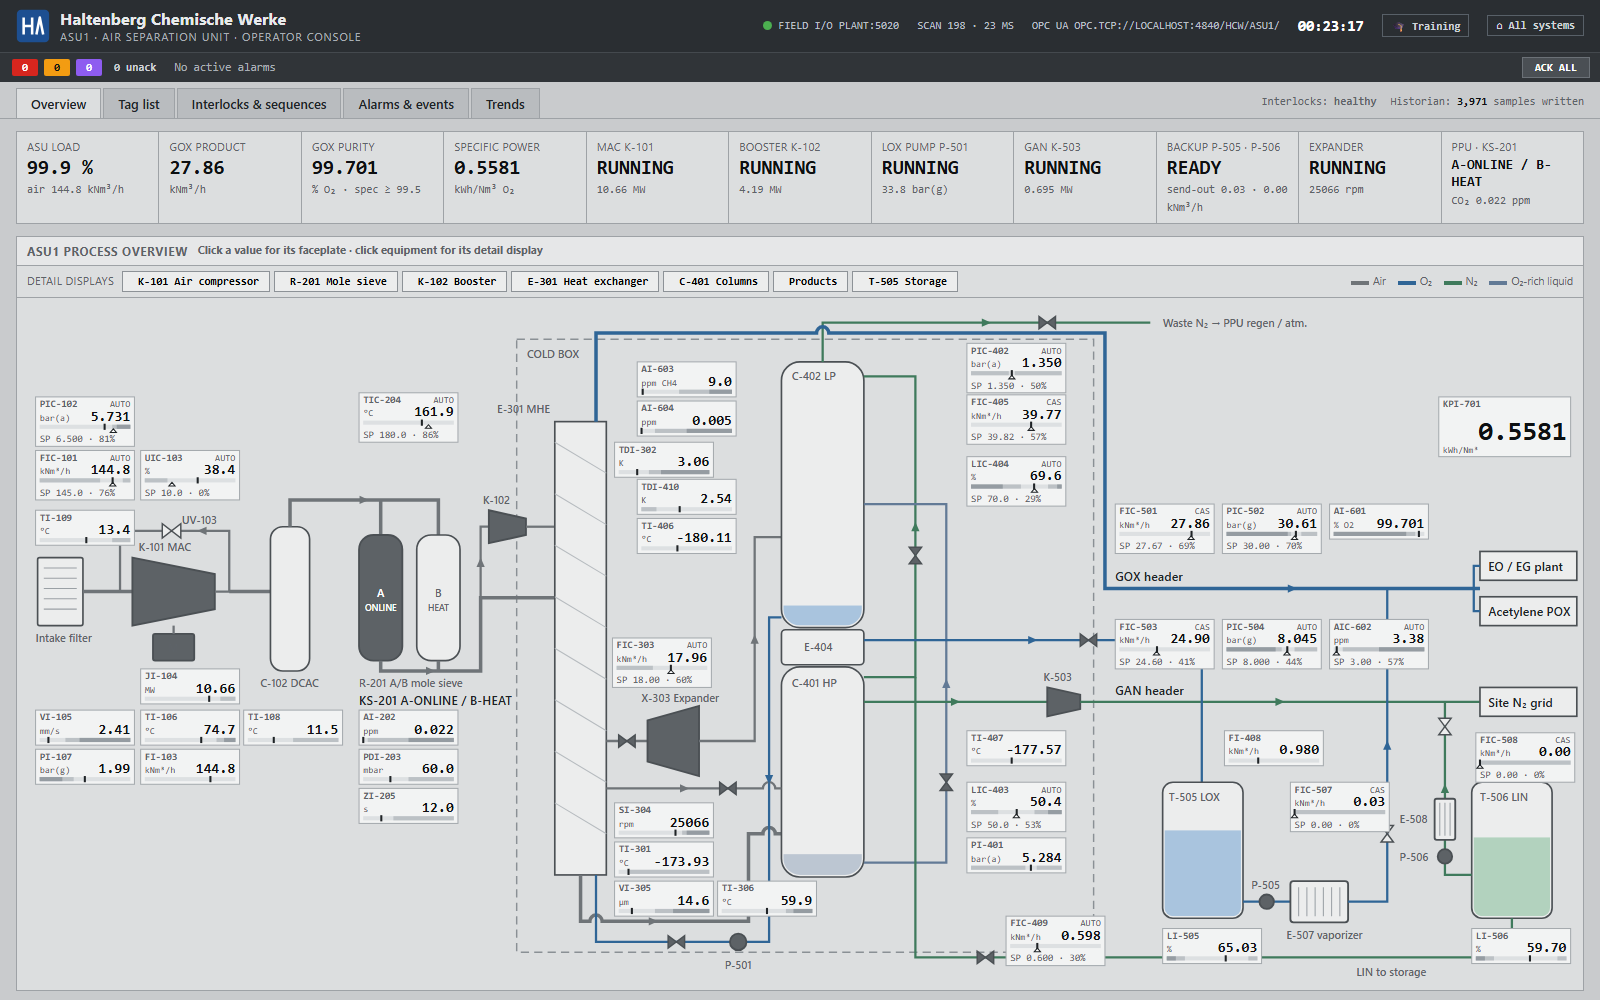
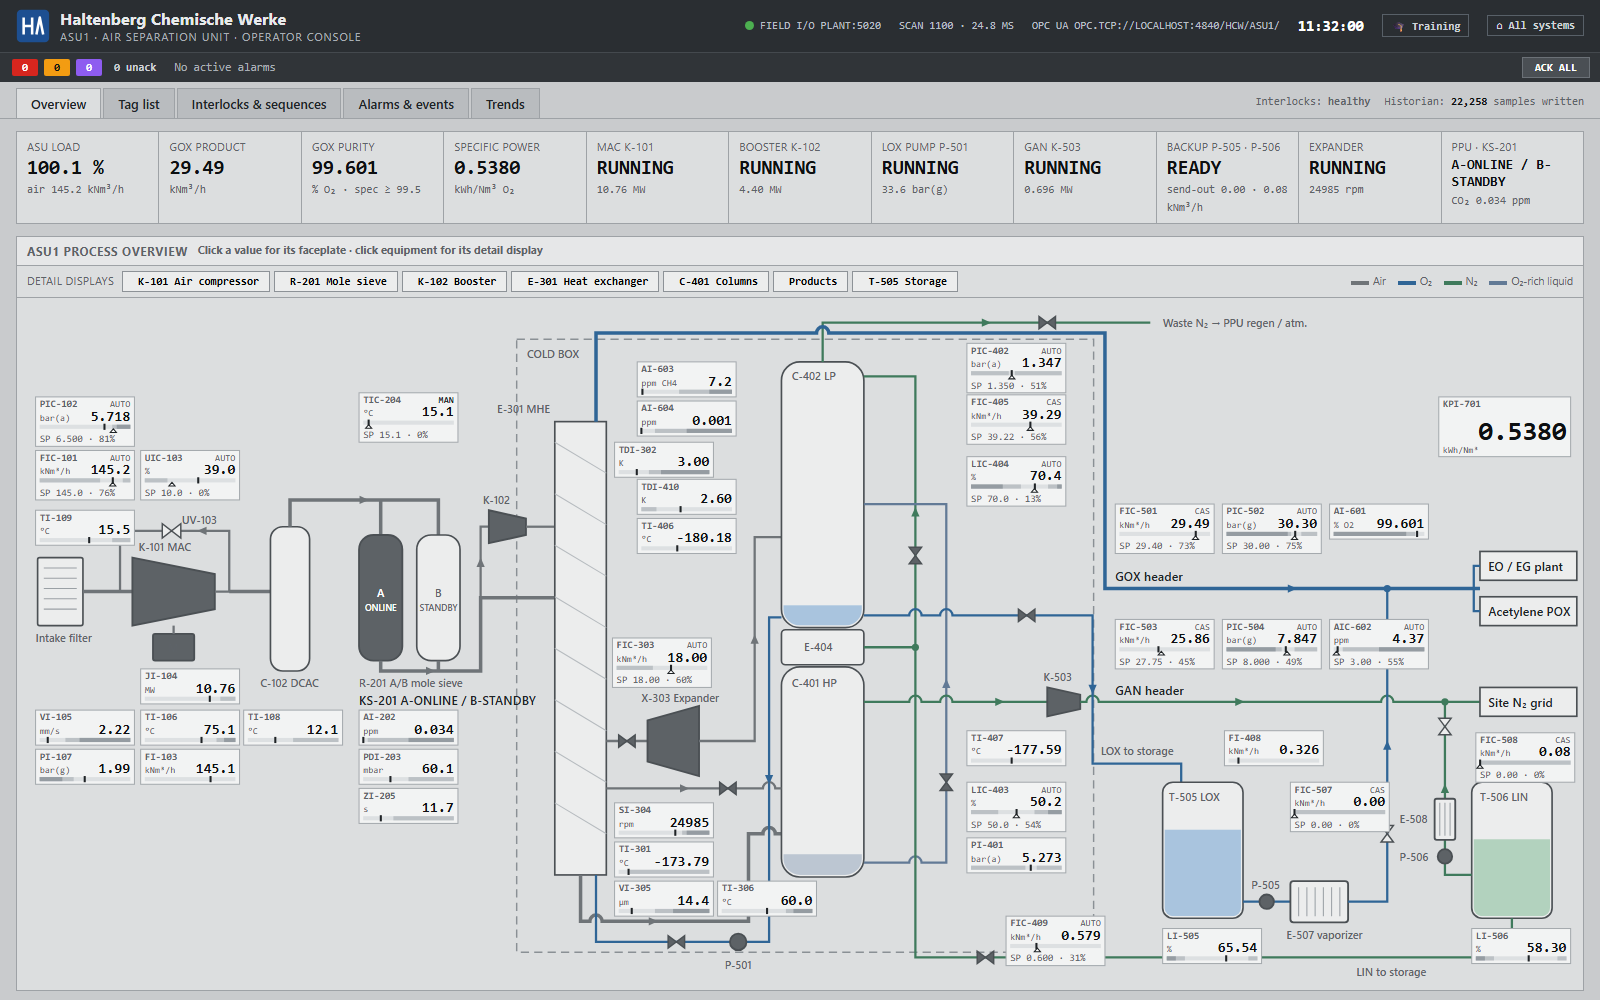
Overview drawing fixes: LOX from the LP sump, LIN from E-404, line hops (step 2c)
- LOX to storage leaves the LP sump as liquid; LV-404 and its label moved clear of the GAN
  data blocks.
- LIN reflux and LIN to storage start at E-404, with a branch node.
- Line hops at every pipe crossing on the overview; junction dots where the E-507 / E-508
  send-outs join their headers.
- Light scope (Willem's choice): GAN and waste N2 still go straight to their headers on L2;
  the E-301 detail display shows them passing the exchanger. Recorded in CLAUDE.md.

diff --git a/dcs/web/operator.html b/dcs/web/operator.html
@@ -446,11 +446,12 @@
           <rect class="vessel" x="742" y="358" width="80" height="204" rx="18"/>
           <rect id="lvl-403" class="liquid rich" clip-path="url(#clip-403)" x="742" y="520" width="80" height="40"/>
           <text class="lbl" x="752" y="378">C-401 HP</text>
-          <!-- reflux HP top -> LP top -->
-          <path class="pipe n2" d="M822 368H872V76H822"/>
+          <!-- LIN from E-404: reflux to the LP top; the branch at the node goes to storage (T-506) -->
+          <path class="pipe n2" d="M822 339H872V76H822"/>
+          <circle class="node" cx="872" cy="339" r="3.5" style="fill:var(--n2)"/>
           <g id="v-FV-405" transform="translate(872,250)"><polygon class="valve" points="-6,-8 6,-8 -6,8 6,8"/></g>
           <!-- rich liquid HP sump -> LP middle -->
-          <path class="pipe rich" d="M822 548H902V200H822"/>
+          <path class="pipe rich" d="M822 548H866a6 6 0 0 1 12 0H902V200H822"/>
           <g id="v-LV-403" transform="translate(902,470)"><polygon class="valve" points="-6,-8 6,-8 -6,8 6,8"/></g>
           <!-- waste N2 -->
           <path class="pipe n2" d="M782 62V24H1100"/>
@@ -469,15 +470,16 @@
           <path class="pipe" d="M572 476H724a6 6 0 0 1 12 0H742"/>
           <g id="v-HV-116" transform="translate(690,476)"><polygon class="valve open" points="-8,-6 -8,6 8,-6 8,6"/></g>
           <!-- GAN: HP column top → K-503 GAN compressor (guide vanes FV-503) → 8 bar(g) header -->
-          <path class="pipe n2" d="M822 392H1000"/>
+          <path class="pipe n2" d="M822 392H866a6 6 0 0 1 12 0H896a6 6 0 0 1 12 0H1000"/>
           <polygon id="eq-GANC" class="equip" points="1000,378 1032,385 1032,399 1000,406"/>
           <text class="lbl" x="996" y="372">K-503</text>
-          <path class="pipe n2" d="M1032 392H1420"/>
-          <path class="pipe o2" d="M822 332H1150V470"/>
-          <g id="v-LV-404" transform="translate(1040,332)"><polygon class="valve" points="-8,-6 -8,6 8,-6 8,6"/></g>
+          <path class="pipe n2" d="M1032 392H1038a6 6 0 0 1 12 0H1324a6 6 0 0 1 12 0H1420"/>
+          <!-- LOX to storage leaves the LP sump as liquid -->
+          <path class="pipe o2" d="M822 308H866a6 6 0 0 1 12 0H896a6 6 0 0 1 12 0H1044V452H1130V470"/>
+          <g id="v-LV-404" transform="translate(980,308)"><polygon class="valve" points="-8,-6 -8,6 8,-6 8,6"/></g>
           <text class="lbl big" x="1066" y="275">GOX header</text>
           <text class="lbl big" x="1066" y="385">GAN header</text>
-          <text class="lbl" x="1066" y="326">LOX to storage</text>
+          <text class="lbl" x="1052" y="444">LOX to storage</text>
           <rect class="vessel" x="1420" y="246" width="94" height="28"/><text class="lbl big" x="1428" y="265">EO / EG plant</text>
           <rect class="vessel" x="1420" y="290" width="94" height="28"/><text class="lbl big" x="1428" y="309">Acetylene POX</text>
           <path class="pipe o2" d="M1420 282H1414V260H1420M1414 282V304H1420"/>
@@ -494,19 +496,21 @@
           <path d="M1244 572v28M1252 572v28M1260 572v28M1268 572v28M1276 572v28M1284 572v28" stroke="#9aa0a5" stroke-width="1"/>
           <text class="lbl" x="1232" y="622">E-507 vaporizer</text>
           <path class="pipe o2" d="M1292 586H1330V282"/>
+          <circle class="node" cx="1330" cy="282" r="3.5" style="fill:var(--o2)"/>
           <g id="v-FV-507" transform="translate(1330,520)"><polygon class="valve" points="-6,-8 6,-8 -6,8 6,8"/></g>
           <rect class="vessel" x="1412" y="470" width="78" height="132" rx="10"/>
           <rect id="lvl-506" class="liquid lin" clip-path="url(#clip-506)" x="1412" y="540" width="78" height="60"/>
           <text class="lbl" x="1420" y="488">T-506 LIN</text>
           <!-- LIN backup: T-506 → P-506 → E-508 vaporizer → FV-508 → GAN header -->
           <path class="pipe n2" d="M1412 560H1386V392"/>
+          <circle class="node" cx="1386" cy="392" r="3.5" style="fill:var(--n2)"/>
           <g id="v-FV-508" transform="translate(1386,416)"><polygon class="valve" points="-6,-8 6,-8 -6,8 6,8"/></g>
           <rect class="equip" id="vapn" x="1376" y="486" width="20" height="40" rx="2"/>
           <path d="M1381 490v32M1386 490v32M1391 490v32" stroke="#9aa0a5" stroke-width="1"/>
           <circle id="eq-LINB" class="equip" cx="1386" cy="542" r="7"/>
           <text class="lbl" x="1342" y="510">E-508</text>
           <text class="lbl" x="1342" y="546">P-506</text>
-          <path class="pipe n2" d="M872 368V640H1451V602"/>
+          <path class="pipe n2" d="M872 339V640H1451V602"/>
           <g id="v-FV-409" transform="translate(940,640)"><polygon class="valve" points="-8,-6 -8,6 8,-6 8,6"/></g>
           <text class="lbl" x="1300" y="658">LIN to storage</text>
 

diff --git a/CLAUDE.md b/CLAUDE.md
@@ -274,11 +274,9 @@ Working agreement: one branch and one PR per step. Verify each step with the off
     - **Also fixed here (2a gap):** the GOX load limit FY-501 (`sp_cap`), see the DCS section.
     - **Displays done here:** products (K-503, second split bar) and T-505 (pumps, E-508); on the overview K-503, P-505 and the P-506 / E-508 riser. The rest of the L2 redraw is 2c.
     - **Known, not fixed:** after a restart at low air (FIC-101 not yet raised) the site still takes full GAN, AIC-602 raises the reflux and GOX purity sits at ~99.2 % (L alarm) until the air is raised — the documented procedure raises it.
-  - **Step 2c:** the overview (L2) redraw below. The nitrogen-side and storage L3 displays were already updated in 2b. Also on L2: the GAN line crosses the reflux / LIN-to-storage (x 872) and rich-liquid (x 902) risers, and the FV-507 riser (x 1330) crosses the GAN header, all without line hops.
-  - **Also in step 2: overview (L2) drawing fixes.** The L3 displays already draw these correctly:
-    - LOX is drawn leaving at the condenser's height instead of from the LP sump.
-    - LIN is not drawn as coming from E-404.
-    - GOX, GAN and waste N₂ bypass E-301 on the overview.
+  - **Done, step 2c (overview drawing fixes, "light" scope chosen by Willem):** LOX to storage leaves the LP sump (y 308), LIN reflux and LIN to storage start at E-404 (node at x 872, y 339), every pipe crossing on L2 has a line hop, and the backup send-outs join their headers with junction dots.
+    - **Deliberately not done:** GAN and waste N₂ still go straight to their headers on the overview. Routing them through E-301's cold end would mean relocating ~8 data blocks in the cold-box area; the E-301 detail display shows them passing the exchanger. GOX already passes E-301 on L2 (since 2a).
+    - **Overview hop convention:** the static SVG writes hops literally as `H{x-6}a6 6 0 0 1 12 0` (the same arc the detail displays' `hop(x)` makes). The horizontal line hops; a vertical line never does.
 - **Step 3: MHE + expander tags.**
   - Every stream through E-301 gets in/out temperatures, so the E-301 display gets data blocks.
   - X-303 gets inlet/outlet temperature and pressure tags (≈ −110 °C at 5.5 bar(a) in, ≈ −178 °C at 1.3 bar(a) out).
